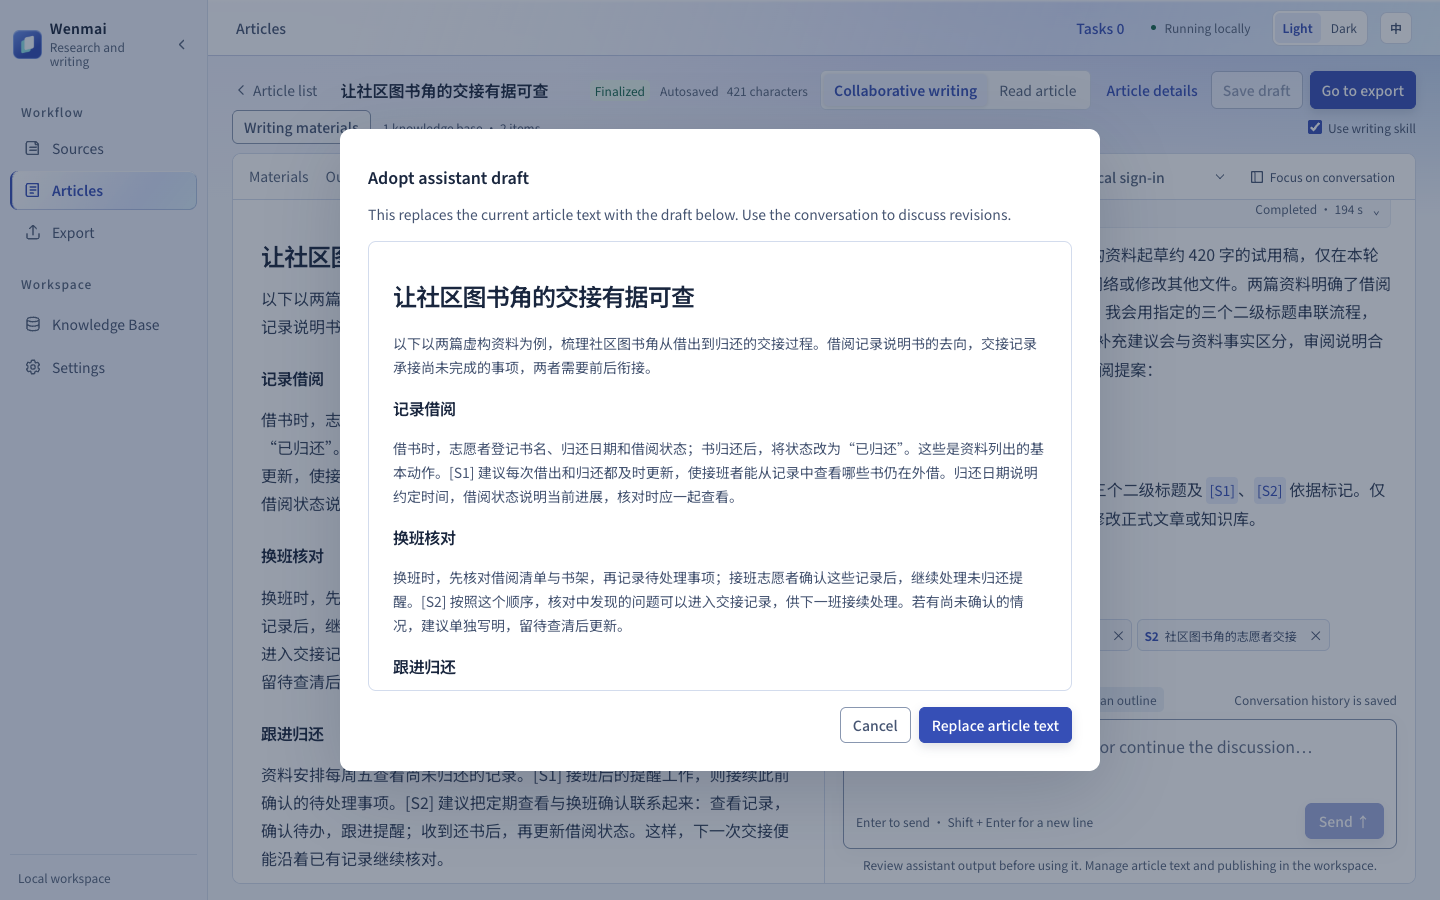
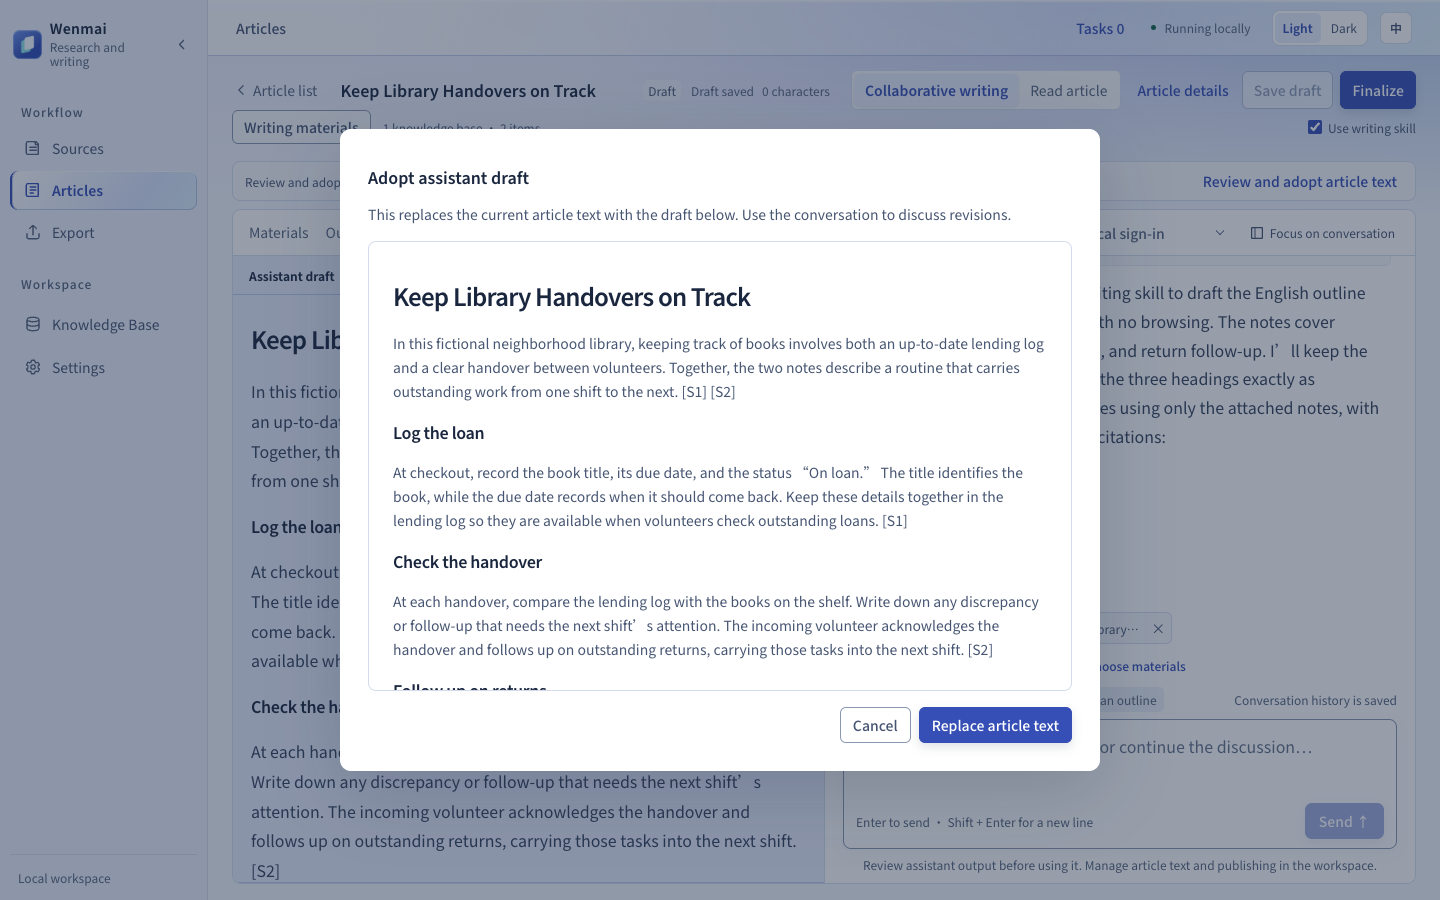
docs: refresh bilingual walkthroughs with localized examples

diff --git a/apps/web/e2e/locale.spec.ts b/apps/web/e2e/locale.spec.ts
@@ -1,4 +1,5 @@
 import { expect, test } from "@playwright/test";
+import { resolve } from "node:path";
 
 test("the language setting updates the workspace and survives a reload", async ({ page }) => {
   await page.setViewportSize({ width: 375, height: 812 });
@@ -21,7 +22,7 @@ test("switching the workspace language keeps the current article and its writing
   await page.getByRole("button", { name: "新建文章", exact: true }).click();
   await expect(page).toHaveURL(/#articles\/[^/]+$/);
   const articleUrl = page.url();
-  const title = "双语文章 A bilingual article";
+  const title = "A bilingual article";
   await page.getByLabel("文章标题", { exact: true }).fill(title);
   await page.getByLabel("向智能体提问").fill("Keep this unsent message.");
   await page.getByRole("button", { name: "切换到英语", exact: true }).click();
@@ -33,7 +34,7 @@ test("switching the workspace language keeps the current article and its writing
   await expect(page.getByRole("group", { name: "Suggested prompt" })).toContainText("Create a reviewable outline");
 });
 
-test("the English workspace supports importing a source, writing, and downloading HTML", async ({ page, request }) => {
+test("two English walkthrough sources become an English article and offline HTML", async ({ page, request }) => {
   const policy = await request.put(`http://127.0.0.1:${process.env.OCF_E2E_SERVER_PORT}/api/v1/imports/policy`, {
     headers: { "x-ocf-client": "1" }, data: { mode: "auto-file", vaultId: "default" },
   });
@@ -42,27 +43,34 @@ test("the English workspace supports importing a source, writing, and downloadin
   await page.goto("/#sources");
   await page.getByRole("button", { name: "切换到英语", exact: true }).click();
   await page.getByRole("button", { name: "Import sources", exact: true }).click();
-  const source = "A source for the English export workflow";
-  await page.getByLabel("Choose files").setInputFiles({
-    name: "english-source.md", mimeType: "text/markdown", buffer: Buffer.from(`# ${source}\n\nImported reference text.`),
-  });
+  const examples = resolve(import.meta.dirname, "../../../docs/examples/walkthrough/en");
+  await page.getByLabel("Choose files").setInputFiles([
+    resolve(examples, "library-lending.md"),
+    resolve(examples, "library-handover.md"),
+  ]);
   await expect(page.getByRole("tab", { name: /All sources/ })).toHaveAttribute("aria-selected", "true");
-  const row = page.locator(".source-row").filter({ hasText: source });
-  await expect(row.getByText("Filed", { exact: true })).toBeVisible();
-  await row.getByRole("checkbox", { name: `Select ${source}` }).check();
+  const titles = ["The Neighborhood Library's Lending Log", "A Volunteer Handover at the Neighborhood Library"];
+  for (const title of titles) {
+    const row = page.locator(".source-row").filter({ hasText: title });
+    await expect(row.getByText("Filed", { exact: true })).toBeVisible();
+    await row.getByRole("checkbox", { name: `Select ${title}` }).check();
+  }
   await page.getByRole("button", { name: "Write article from selected sources", exact: true }).click();
   await expect(page).toHaveURL(/#articles\/[^/]+$/);
   const articleId = new URL(page.url()).hash.split("/")[1];
-  const title = "English export workflow";
-  const articleText = "This is the reviewed article text.";
+  const title = "Keep Library Handovers on Track";
+  const articleText = "Record each loan and check the shelf at handover so the next shift can follow up on outstanding returns.";
+  const attached = page.getByLabel("Sources for this message");
+  for (const source of titles) await expect(attached).toContainText(source);
   await page.getByLabel("Article title", { exact: true }).fill(title);
   await page.route(`**/api/v1/articles/${articleId}/agent/runs`, async (route) => {
+    expect(route.request().postDataJSON().selections).toEqual([{ materialId: "S1" }, { materialId: "S2" }]);
     const now = new Date().toISOString();
     await route.fulfill({ status: 202, json: { id: "locale-export-run", articleId, profileId: "claude-current", assistantMessageId: "assistant",
       status: "completed", text: articleText, finalAnswer: articleText, tools: [], permissions: [], seq: 1,
       activity: "已完成", errorCode: null, createdAt: now, updatedAt: now } });
   });
-  await page.getByRole("textbox", { name: "Ask the assistant" }).fill("Write an article using the selected source.");
+  await page.getByRole("textbox", { name: "Ask the assistant" }).fill("Write an English article using both selected sources.");
   await page.getByRole("button", { name: "Send message", exact: true }).click();
   await page.getByRole("button", { name: "Use as article text", exact: true }).click();
   const review = page.getByRole("dialog", { name: "Adopt assistant draft" });
@@ -86,4 +94,5 @@ test("the English workspace supports importing a source, writing, and downloadin
   const html = Buffer.concat(chunks).toString();
   expect(html).toContain('<html lang="en">');
   expect(html).toContain(articleText);
+  expect(html).not.toMatch(/\p{Script=Han}/u);
 });

diff --git a/README.md b/README.md
@@ -13,11 +13,11 @@ npm install
 npm run dev
 ```
 
-Open the [local Wenmai workspace](http://127.0.0.1:5173/). Under **Settings → Appearance → Language**, choose **English** or **中文**. You can also switch from the workspace header.
+Open the [local Wenmai workspace](http://127.0.0.1:5173/). Choose **English** under **Settings → Appearance → Language**. The workspace header also has a language switch.
 
 ## From sources to an exported article
 
-The screenshots show the English interface using the same fictional community library example as the Chinese guide.
+Follow the walkthrough with two English-language notes from a fictional neighborhood library. Download the [lending log](docs/examples/walkthrough/en/library-lending.md) and the [volunteer handover](docs/examples/walkthrough/en/library-handover.md) to try it yourself.
 
 ### 1. Import and file your sources
 

diff --git a/README.zh-CN.md b/README.zh-CN.md
@@ -17,7 +17,7 @@ npm run dev
 
 ## 从资料到成稿
 
-以下截图使用试用工作区中的虚构示例「社区图书角」。
+以下截图使用试用工作区中的虚构示例「社区图书角」。可以下载[借阅记录](docs/examples/walkthrough/zh-CN/library-lending.md)和[志愿者交接](docs/examples/walkthrough/zh-CN/library-handover.md)，跟着步骤试用。
 
 ### 1. 导入资料并确认入库
 

diff --git a/docs/examples/walkthrough/en/library-handover.md b/docs/examples/walkthrough/en/library-handover.md
@@ -1,0 +1,7 @@
+# A Volunteer Handover at the Neighborhood Library
+
+This fictional example describes the handover between two volunteer shifts.
+
+- Compare the lending log with the books on the shelf.
+- Write down any discrepancy or follow-up that needs the next shift's attention.
+- The incoming volunteer acknowledges the handover and follows up on outstanding returns.

diff --git a/docs/examples/walkthrough/en/library-lending.md b/docs/examples/walkthrough/en/library-lending.md
@@ -1,0 +1,7 @@
+# The Neighborhood Library's Lending Log
+
+This fictional example shows how a volunteer-run library tracks its books.
+
+- On checkout, record the book title, due date, and the status "On loan."
+- When the book comes back, mark the record "Returned."
+- Each Friday, check the lending log for outstanding loans.

diff --git a/docs/examples/walkthrough/zh-CN/library-handover.md b/docs/examples/walkthrough/zh-CN/library-handover.md
@@ -1,0 +1,7 @@
+# 社区图书角的志愿者交接
+
+这是一个虚构的志愿者换班案例。
+
+- 换班时先核对借阅清单与书架。
+- 将差异和待跟进事项记录下来，交给下一班。
+- 接班志愿者确认待处理记录后，跟进未归还的图书。

diff --git a/docs/examples/walkthrough/zh-CN/library-lending.md b/docs/examples/walkthrough/zh-CN/library-lending.md
@@ -1,0 +1,7 @@
+# 社区图书角的借阅记录
+
+这是一个虚构的志愿者图书角案例。
+
+- 借出时登记书名、归还日期和借阅状态。
+- 图书归还时，将借阅状态改为「已归还」。
+- 每周五查看尚未归还的记录。
